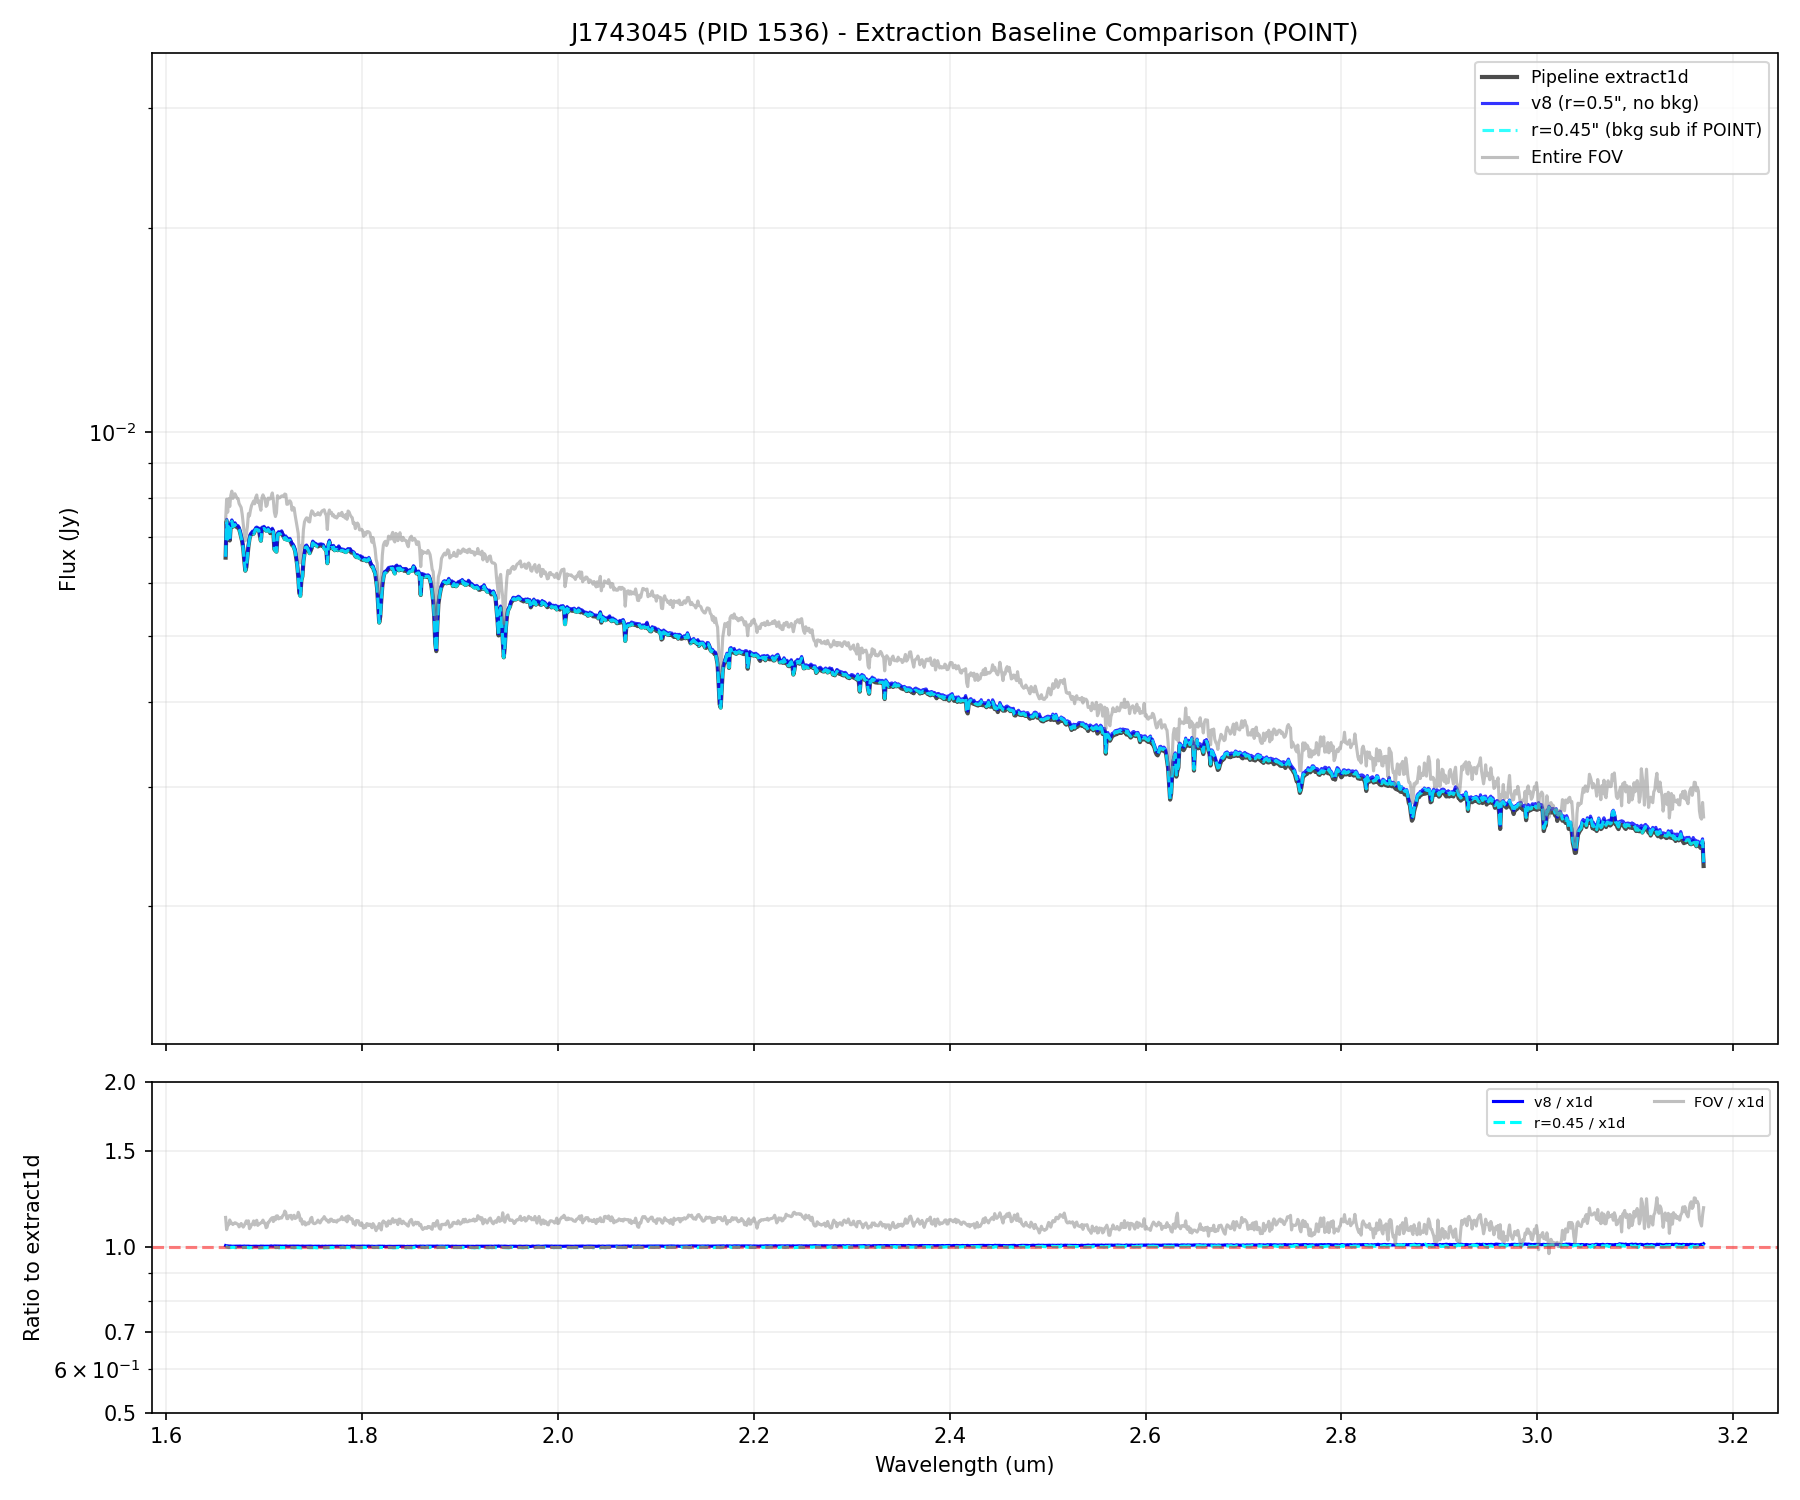
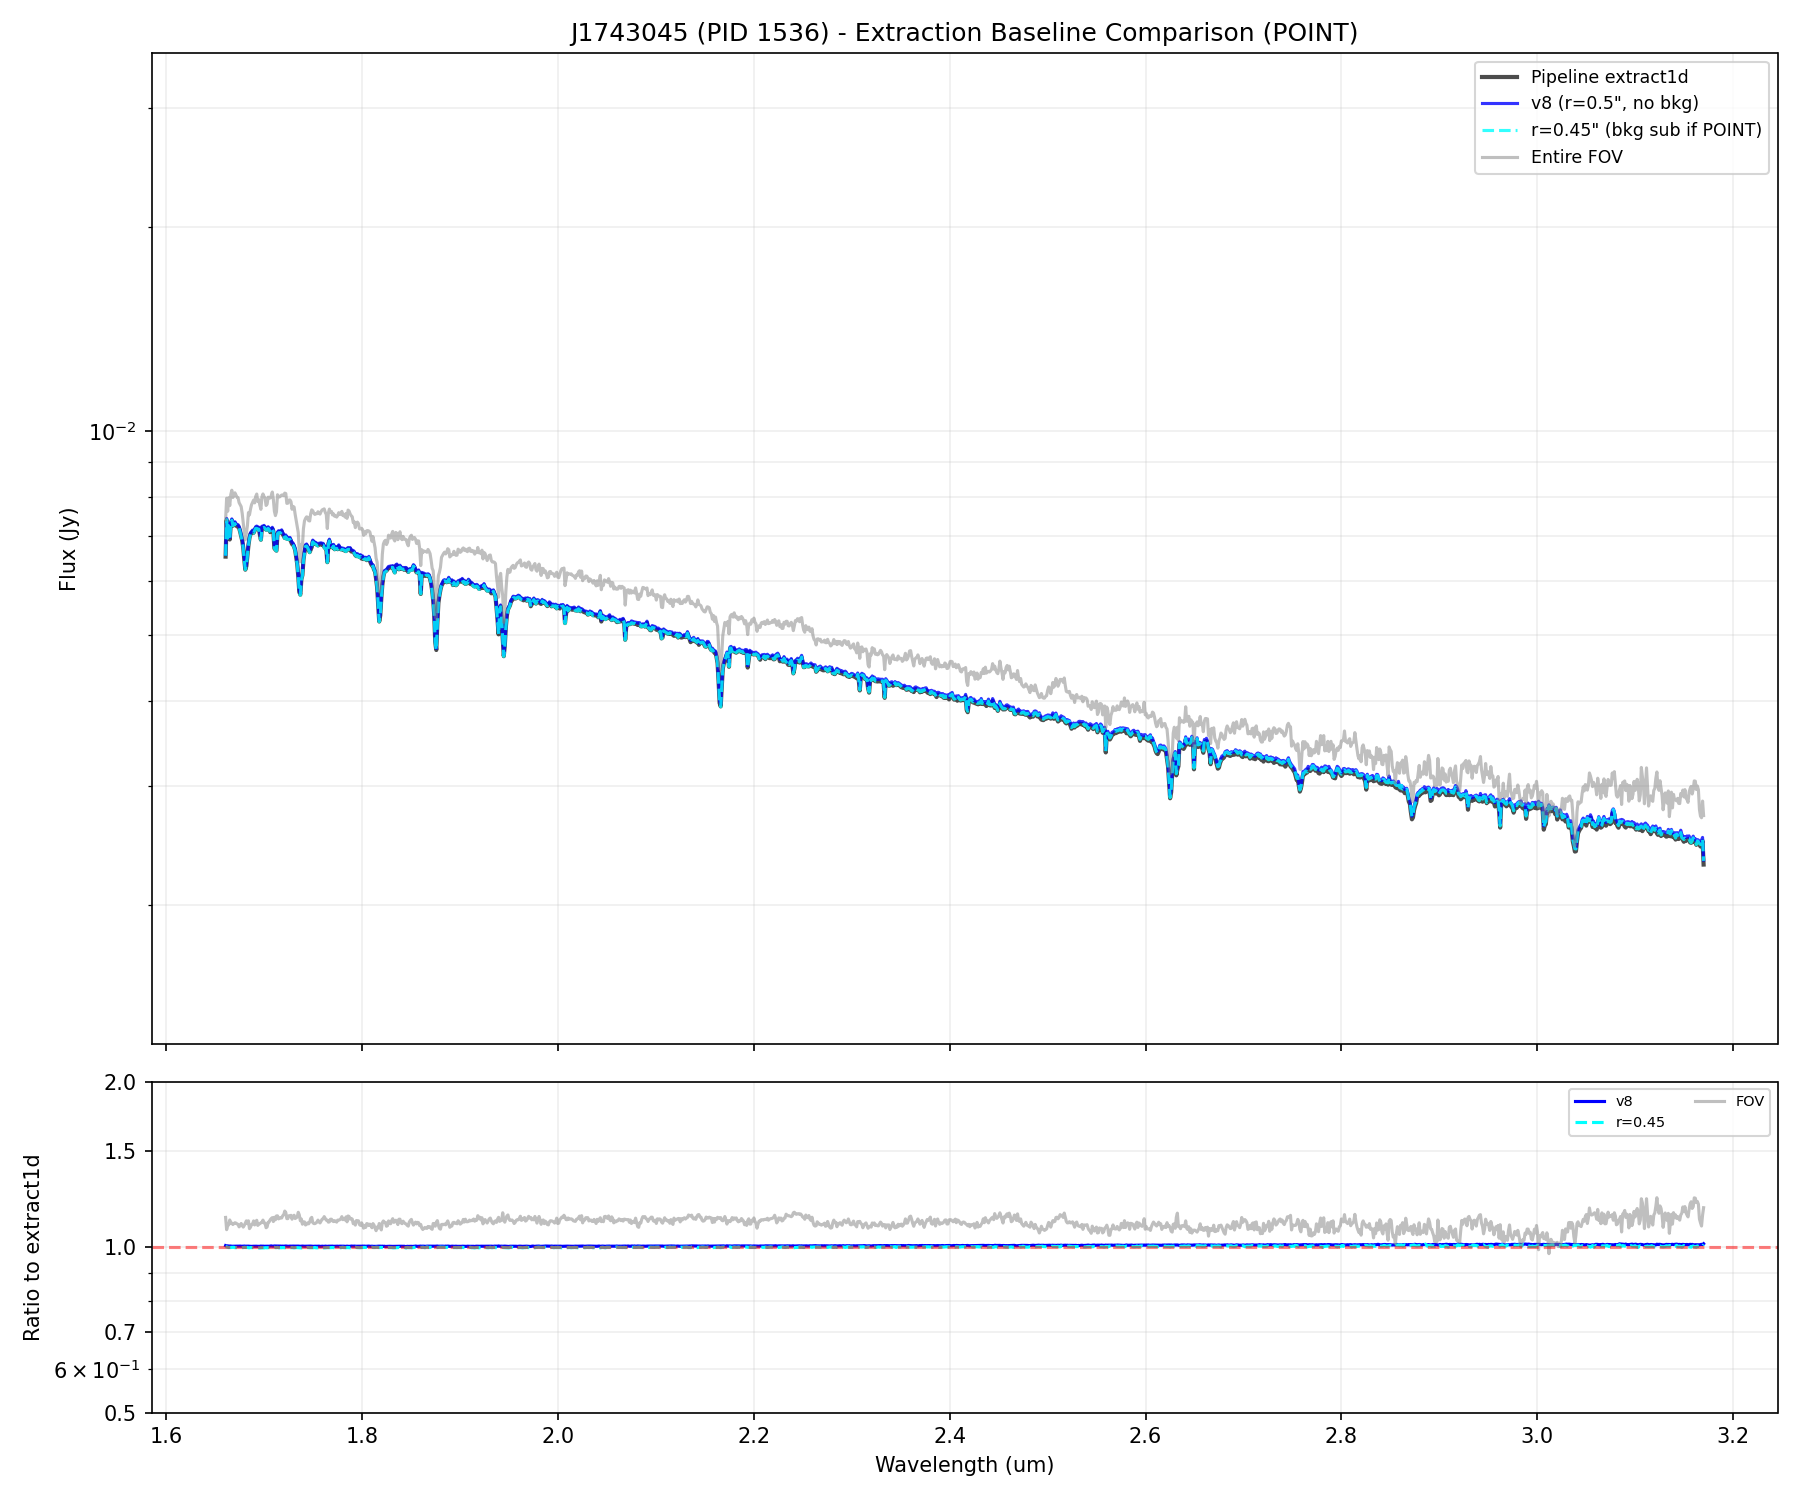
Update IFU baseline plots: include extract1d in y-range and clean legend labels.

diff --git a/reports/v8/ifu_v8/extractions_all_ifu_v8/extractions_all_ifu_v8.py b/reports/v8/ifu_v8/extractions_all_ifu_v8/extractions_all_ifu_v8.py
@@ -111,21 +111,25 @@ def plot_target(target, results):
     ax1.legend(loc='upper right', fontsize='small')
     ax1.grid(True, which='both', alpha=0.2)
     
-    # Range handling (ignore gaps)
+    # Range handling (include both v8 and x1d)
     mask_gap = ((wl >= 2.19) & (wl <= 2.23)) | ((wl >= 3.65) & (wl <= 3.80))
-    valid = (results['spec_05'] > 0) & np.isfinite(results['spec_05']) & (~mask_gap)
-    if np.any(valid):
-        y_min = np.percentile(results['spec_05'][valid], 1) * 0.5
-        y_max = np.percentile(results['spec_05'][valid], 99) * 5.0
+    valid_all = (np.concatenate([results['spec_05'], results['spec_x1d']]) > 0) & \
+                np.isfinite(np.concatenate([results['spec_05'], results['spec_x1d']])) & \
+                (~np.concatenate([mask_gap, mask_gap]))
+    
+    if np.any(valid_all):
+        all_fluxes = np.concatenate([results['spec_05'], results['spec_x1d']])
+        y_min = np.percentile(all_fluxes[valid_all], 1) * 0.5
+        y_max = np.percentile(all_fluxes[valid_all], 99) * 5.0
         ax1.set_ylim(y_min, y_max)
     
     # Ratio relative to extract1d
     f_old = interp1d(results['wl_old'], results['spec_x1d'], bounds_error=False, fill_value=np.nan)
     ref_flux = f_old(wl)
     
-    ax2.plot(wl, results['spec_05'] / ref_flux, label='v8 / x1d', color='blue')
-    ax2.plot(wl, results['spec_045'] / ref_flux, label='r=0.45 / x1d', color='cyan', linestyle='--')
-    ax2.plot(wl, results['spec_fov'] / ref_flux, label='FOV / x1d', color='gray', alpha=0.5)
+    ax2.plot(wl, results['spec_05'] / ref_flux, label='v8', color='blue')
+    ax2.plot(wl, results['spec_045'] / ref_flux, label='r=0.45', color='cyan', linestyle='--')
+    ax2.plot(wl, results['spec_fov'] / ref_flux, label='FOV', color='gray', alpha=0.5)
     ax2.axhline(1.0, color='red', linestyle='--', alpha=0.5)
     
     ax2.set_yscale('log')
